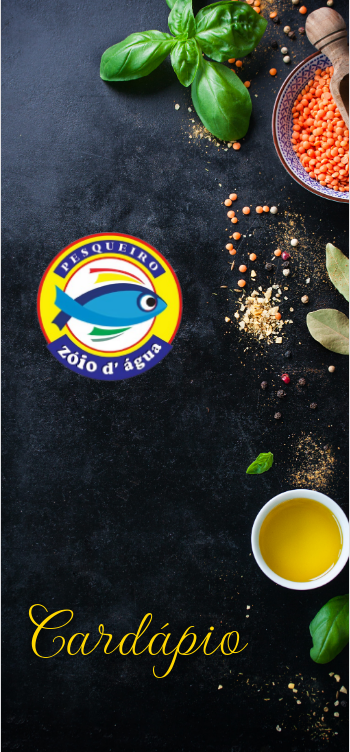
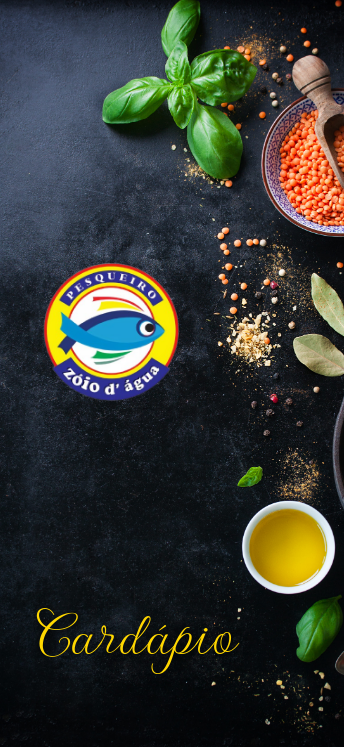
responsive

diff --git a/webmenu/src/components/portfolio/Portfolio.css b/webmenu/src/components/portfolio/Portfolio.css
@@ -6,7 +6,7 @@
 
 .portfolio__container {
   /* border: solid green 3px; */
-  margin: 10px 0;
+  margin: 50px 0;
   display: flex;
   width: 80%;
 }
@@ -21,11 +21,6 @@
   border: black 2px solid;
   padding: 3px;
   border-radius: 5px;
-}
-
-.portfolio__card {
-  /* display: flex; */
-  /* border: purple solid 3px; */
 }
 
 .portfolio__bar {
@@ -48,6 +43,7 @@
 .portfolio__card-image {
   width: 30vh;
   height: 55vh;
+  box-shadow: 0px 0px 10px black;
 }
 
 .card__icon {
@@ -61,13 +57,63 @@
   margin-bottom: 10px;
 }
 
-.portfolio__card-text {
-  /* margin-top: 50px; */
-}
-
 .portfolio__container-card-text {
   /* border: red solid 3px; */
   display: flex;
   flex-direction: column;
   justify-content: center;
+}
+
+.portfolio__sub-container {
+  display: flex;
+  /* border: rgba(99, 99, 99, 5) 3px solid; */
+  align-content: center;
+  align-items: center;
+  flex-direction: column;
+  width: 90%;
+}
+
+@media screen and (max-width: 800px) {
+
+  .portfolio__container {
+    width: 100%;
+    display: flex;
+    flex-direction: column;
+  }
+
+  .portfolio__card {
+    width: 100%;
+    display: flex;
+    flex-direction: column;
+    align-items: center;
+    justify-content: space-around;
+  }
+
+  .portfolio__card-image {
+    width: 100%;
+    height: auto;
+  }
+
+  .portfolio__img-link {
+    width: 20px;
+    margin-top: 10px;
+  }
+
+  .portfolio__container {
+    width: 100%;
+  }
+
+  .portfolio__card-image {
+    width: 18vh;
+    height: 35vh;
+  }
+
+  .portfolio__bar {
+    width: 100%;
+    margin-top: 10px;
+    background-color: rgb(197, 197, 197);
+    height: 3px;
+    box-shadow: 1px 3px 10px gray;
+  }
+
 }

diff --git a/webmenu/src/data.js b/webmenu/src/data.js
@@ -15,9 +15,9 @@ const data = {
     { 
       name: "Pesqueiro Zoio D'gua", 
       img: pesqueiro , 
-      info: "Lorem ipsum dolor sit amet, consectetur adipiscing elit. Nullam posuere lorem ante, porttitor viverra metus imperdiet nec. Donec aliquet enim purus, sed dictum mauris imperdiet in. Suspendisse sed euismod enim. Duis auctor, magna sit amet imperdiet molestie, lacus dui feugiat orci, ac consequat diam augue non nisl. Aliquam nec gravida sem. Nullam id mollis sapien. Sed feugiat ornare sem. Duis rutrum lobortis dolor. Donec vestibulum tincidunt ipsum, at laoreet nunc dictum et. Mauris quis lobortis felis. Nam ut erat cursus, euismod augue vitae, ultricies urna. Praesent sodales tellus eu mattis aliquam. Curabitur sed mollis neque. Quisque sodales ante euismod mauris commodo convallis. Vivamus felis erat, tempus in lobortis vel, volutpat nec lectus. Morbi viverra orci arcu, vel blandit est placerat eu.", 
+      info: "Criado com muito carinho pela equipe da WebMenu. Com um design moderno e funcional, o cardápio é acessível em qualquer dispositivo com acesso à internet, permitindo que seus clientes visualizem todas as opções de produtos de forma prática e intuitiva. Além disso, nosso cardápio digital conta com imagens de alta qualidade, descrições detalhadas e preços atualizados, garantindo que os clientes tenham uma experiência de alta qualidade ao escolher seus pratos preferidos. Acesse agora mesmo e surpreenda-se com a praticidade e eficiência do nosso cardápio digital!", 
       link: 'https://zoiodagua.vercel.app/',
-    }
+    },
   ]
 }
   

diff --git a/webmenu/src/components/portfolio/Portfolio.jsx b/webmenu/src/components/portfolio/Portfolio.jsx
@@ -7,8 +7,9 @@ export class Portfolio extends Component {
     const { clients } = data;
     return (
       <section className='portfolio__main-container'>
+        <div className='portfolio__sub-container'>
         {clients.map(({ name, img, info, link }) => (
-          <article className='portfolio__container'>
+          <article key={name} className='portfolio__container'>
             <div className='portfolio__card'>
             <h2 className='portfolio__title'>{ name }</h2>
               <img src={ img } alt={ `Imagem do menu web de ${ name } ` } className='portfolio__card-image'/>
@@ -24,6 +25,7 @@ export class Portfolio extends Component {
             </div>
           </article>
         ))}
+        </div>
       </section>
   );
   }

diff --git a/webmenu/src/components/header/Header.jsx b/webmenu/src/components/header/Header.jsx
@@ -1,6 +1,7 @@
 import React, { Component } from 'react';
 import './Header.css';
 import logo from '../../images/logo.png'
+import menu from '../../images/menu.png'
 
 class Header extends Component {
   render() {
@@ -10,6 +11,7 @@ class Header extends Component {
           <img src={logo} alt="logo" className='logo' />
         </a>
         <nav>
+          <img src={menu} alt="imagem de menu" className='menu-icon'/>
           <ul className="navbar">
             <li id="about-us__li"><a href="#aboutUs" className='link-nostyle'>Sobre nós</a></li>
             <li id="about-web-menu__li"><a href="#menuweb" className='link-nostyle'>Menus Web</a></li>

diff --git a/webmenu/public/index.html b/webmenu/public/index.html
@@ -5,7 +5,7 @@
     <link rel="icon" type="image/png" href="%PUBLIC_URL%/favicon.ico" sizes="16x16">
     <meta name="viewport" content="width=device-width, initial-scale=1" />
     <meta name="theme-color" content="#000000" />
-    <meta name="viewport" content="width=400, initial-scale=0.5 user-scalable=no">
+    <!-- <meta name="viewport" content="width=400, initial-scale=0.5 user-scalable=no"> -->
     <meta
       name="description"
       content="Web site created using create-react-app"

diff --git a/webmenu/src/components/header/Header.css b/webmenu/src/components/header/Header.css
@@ -100,3 +100,34 @@
   transition: font-size 0.2s ease-in-out;
   color: #bad1ee
 }
+
+.menu-icon {
+  display: none;
+}
+
+@media screen and (max-width: 800px) {
+  .hero__background {
+    width: 100%;
+  }
+
+  .navbar {
+    display: none;
+  }
+
+  .menu-icon {
+    display: flex;
+    width: 60px;
+  }
+
+  .container__flex {
+    justify-content: space-between;
+    width: 100%;
+    padding: 30px;
+  }
+
+  .logo {
+    width: 50px;
+  }
+
+}
+

diff --git a/webmenu/src/components/footer/Footer.css b/webmenu/src/components/footer/Footer.css
@@ -3,7 +3,7 @@ footer {
   position: fixed;
   bottom: 0;
   width: 100%;
-  padding: 30px;
+  padding: 15px;
   color: #94BDF2;
   font-size: 1.2rem;
   display: flex;
@@ -23,5 +23,15 @@ footer {
   justify-content: space-around;
   margin-top: 25px;
   /* border: solid 1px red; */
-  width: 20rem;
+  width: 15rem;
+}
+
+@media screen and (max-width: 800px) {
+  footer {
+    width: 100%;
+  }
+
+  .footer__icon-img {
+    font-size: 30px;
+  }
 }

diff --git a/webmenu/src/components/menu-web/MenuWeb.css b/webmenu/src/components/menu-web/MenuWeb.css
@@ -36,3 +36,21 @@ hr {
 .menuweb__text {
   letter-spacing: 2px;
 }
+
+@media screen and (max-width: 800px) {
+  .menuweb__article {
+    width: 70%;
+    justify-content: center;
+    align-content: center;
+  }
+
+  .menuweb__text {
+    font-size: 60%;
+  }
+
+  .menuweb__title {
+    text-align: center;
+    font-size: 180%;
+  }
+
+}

diff --git a/webmenu/src/components/about/AboutUs.css b/webmenu/src/components/about/AboutUs.css
@@ -37,3 +37,21 @@ hr {
 .aboutUs__text {
   letter-spacing: 2px;
 }
+
+@media screen and (max-width: 800px) {
+  .aboutUs__text {
+    font-size: 60%;
+  }
+
+  .aboutUs__article {
+    width: 70%;
+    justify-content: center;
+    align-content: center;
+    padding: 50px;
+  }
+
+  .aboutUs__title {
+    font-size: 200%;
+  }
+
+}

diff --git a/webmenu/src/components/form/Form.css b/webmenu/src/components/form/Form.css
@@ -81,3 +81,19 @@
   display: flex;
   justify-content: center;
 }
+
+@media screen and (max-width: 800px) {
+  .form__container {
+    /* border: 3px red solid; */
+    width: 70%;
+  }
+
+  form {
+    display: flex;
+    justify-content: center;
+  }
+
+  .contact__title {
+    font-size: 200%;
+  }
+}

diff --git a/webmenu/src/components/hero/Hero.css b/webmenu/src/components/hero/Hero.css
@@ -33,3 +33,9 @@
   justify-content: center;
   text-align: center;
 }
+
+@media screen and (max-width: 800px) {
+  .hero__background {
+    width: 100%;
+  }
+}
